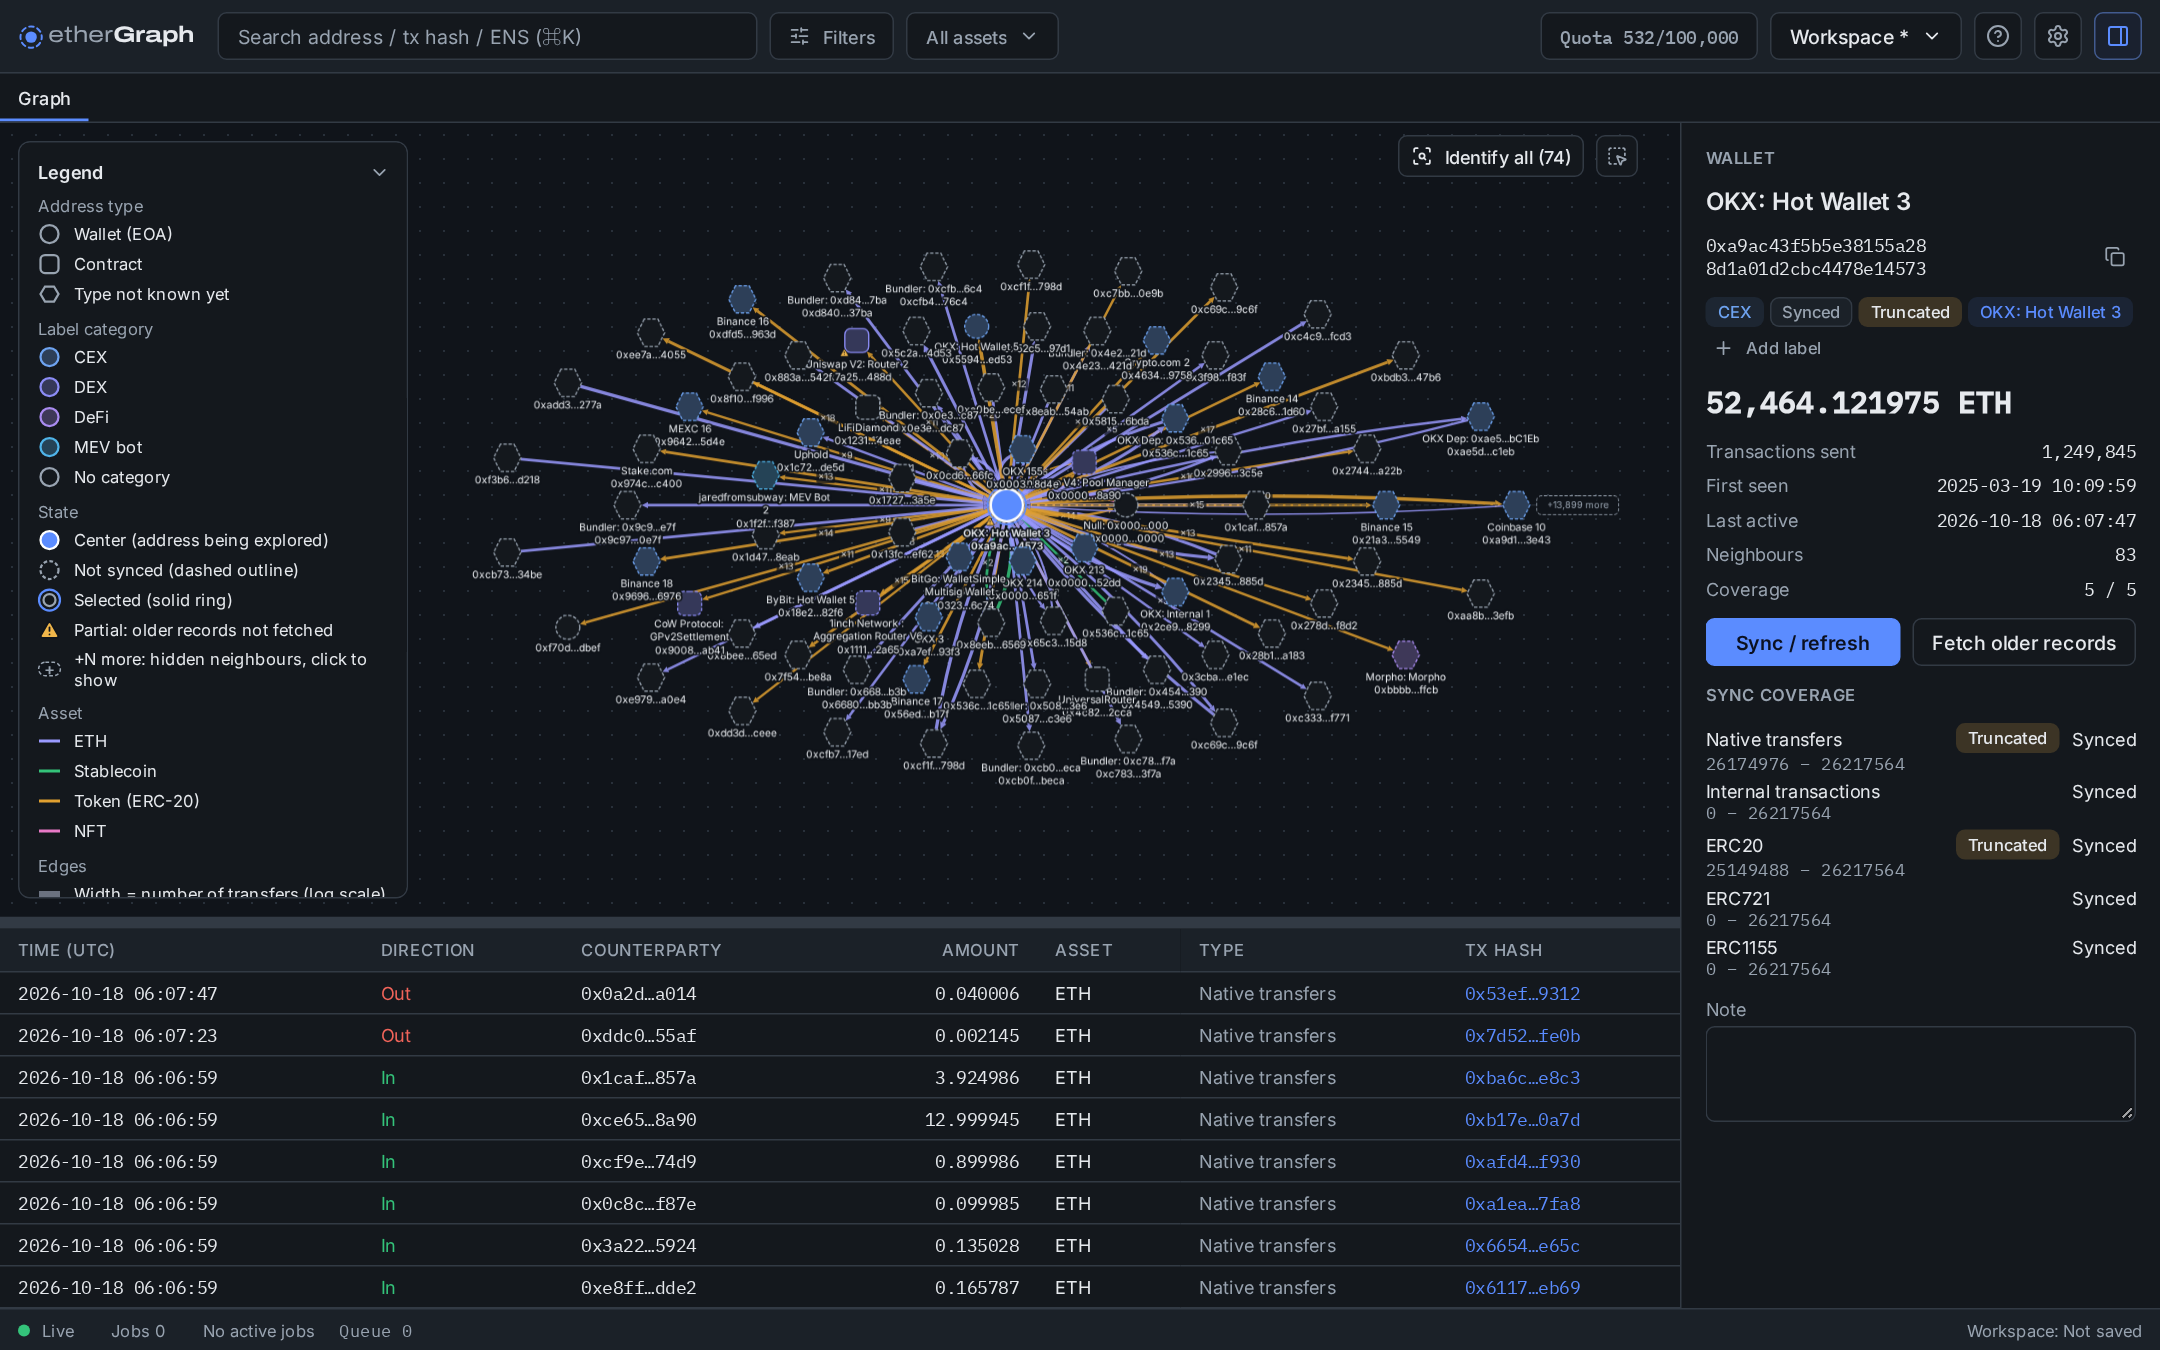
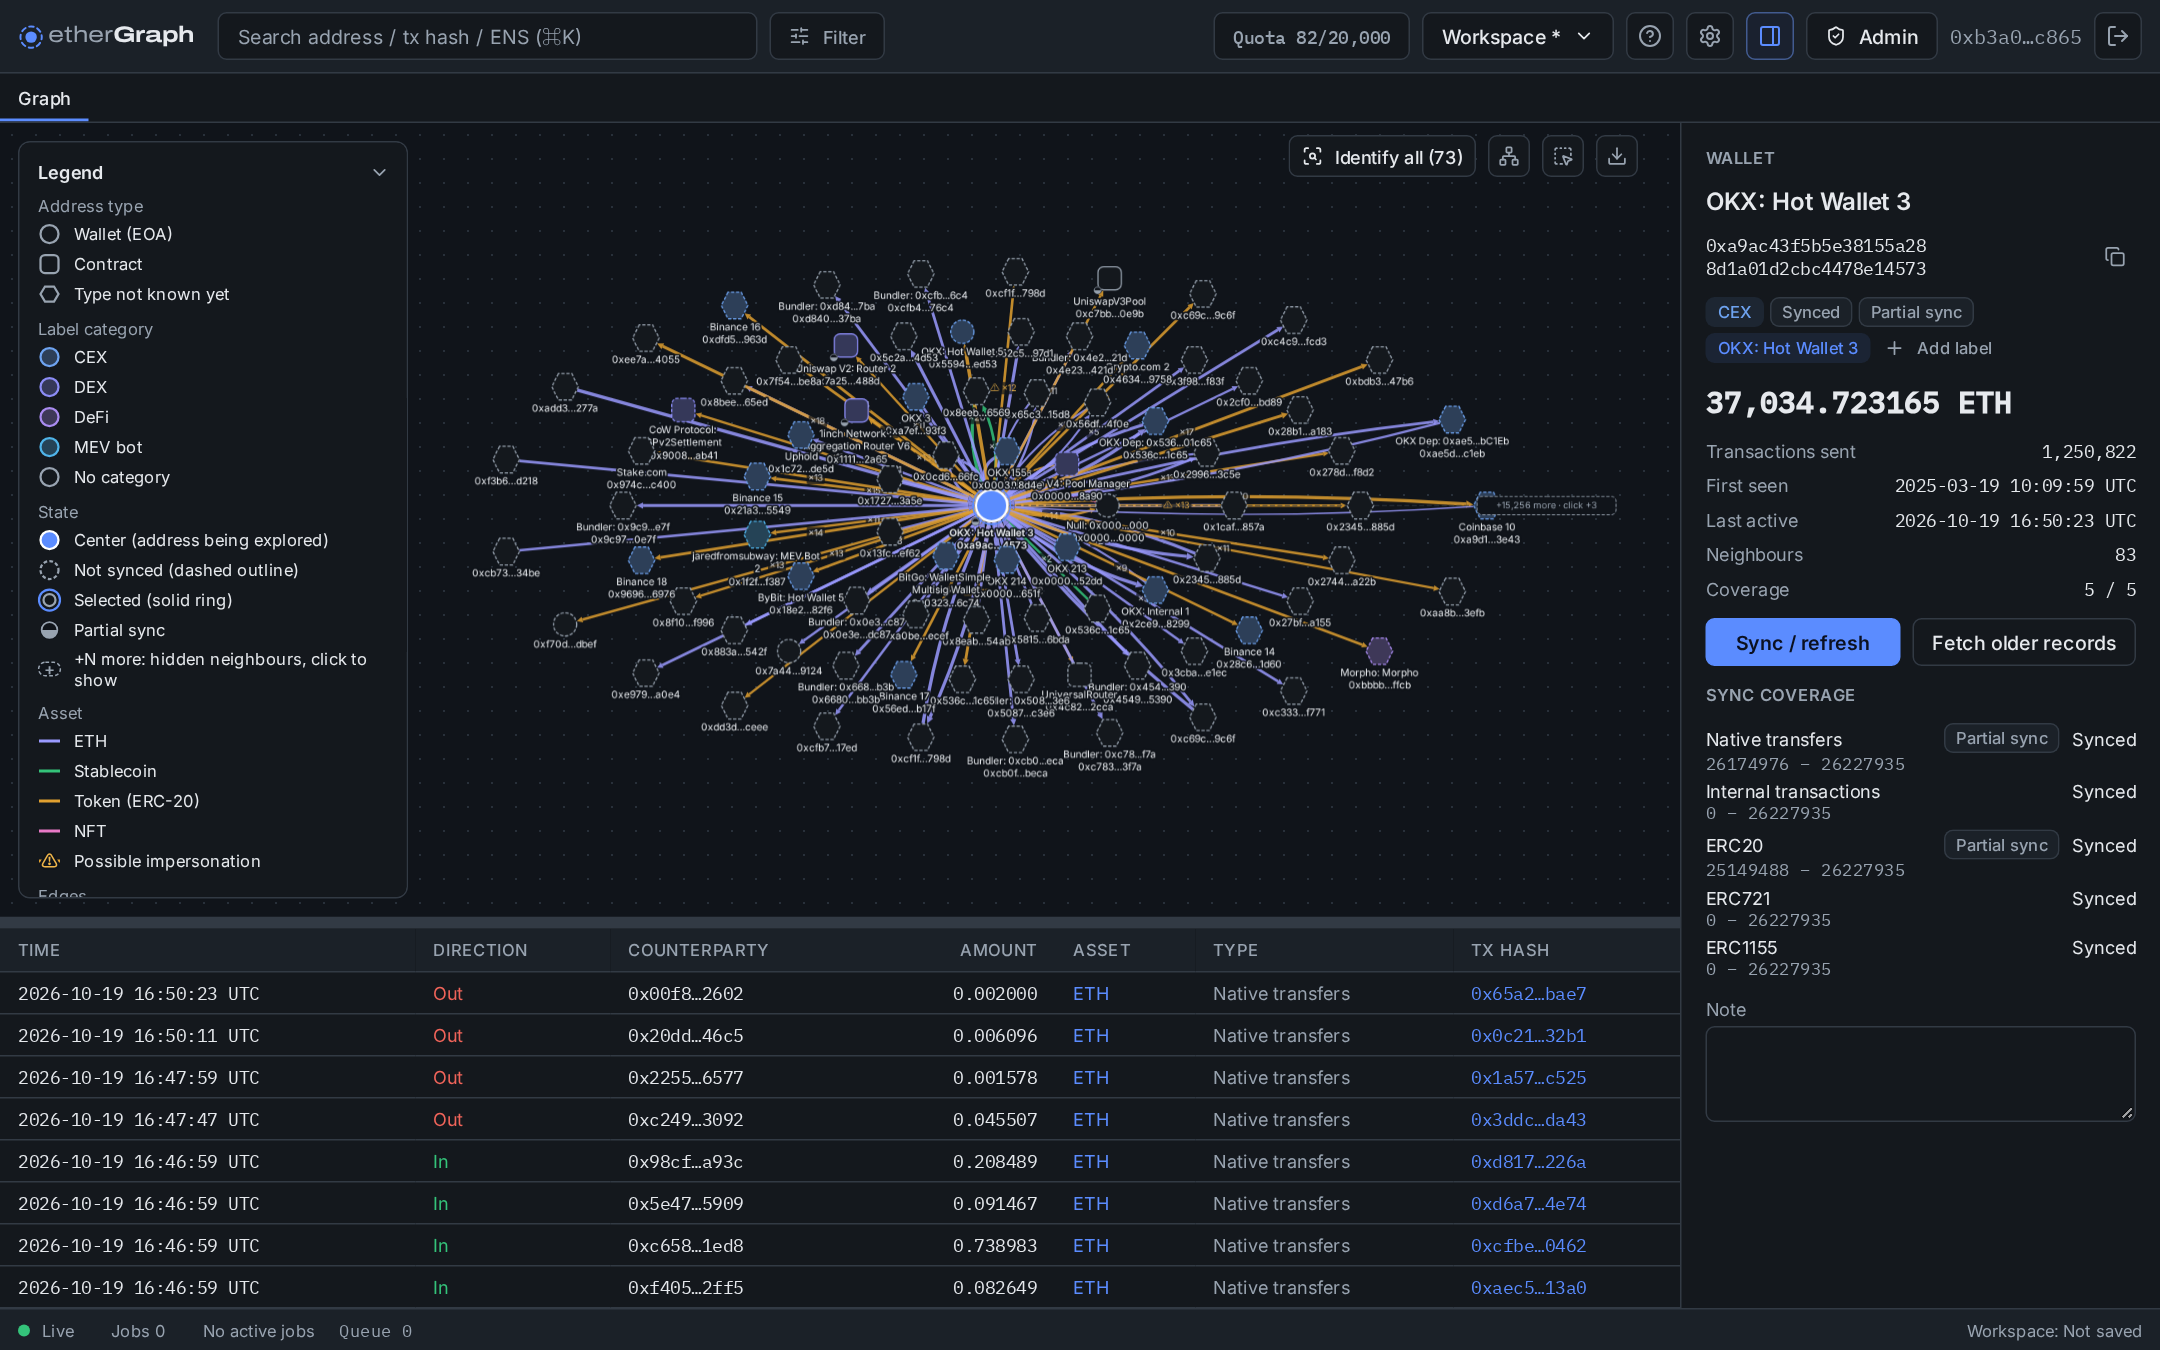
docs: README covers call trees, token trust, workspaces and wallet sign-in, with new screenshots

diff --git a/README.md b/README.md
@@ -4,7 +4,7 @@
 </p>
 
 <p align="center">
-  Explore Ethereum as a graph — follow funds between addresses, contracts and tokens.
+  Explore Ethereum as a graph — follow funds between addresses, contracts and tokens, and open any transaction down to its calls.
 </p>
 
 <p align="center">
@@ -14,32 +14,54 @@
 
 ## Features
 
-- **Address graph** — start from an address, ENS name or transaction hash and expand counterparties in budgeted batches, so the canvas never floods. Every expansion can be undone or cancelled.
-- **Transaction view** — a fund-flow graph with the fee breakdown, decoded input, token transfers, internal calls, logs and raw JSON.
+- **Address graph** — start from an address, ENS name or transaction hash and expand counterparties in budgeted batches, so the canvas never floods. Each expansion shows how many nodes and API calls it will cost before it runs, and can be undone or cancelled. Hidden neighbours wait in draggable "+N more" nodes; Re-layout spreads the graph out again.
+- **Transaction view** — a fund-flow graph with a summary of the token transfers, the fee breakdown, decoded input, token transfers, internal calls, logs and raw JSON. EIP-7702 authorizations and delegations are drawn as well.
+- **Call tree** — the full call trace as a linked call graph and tree. Calls through proxies are decoded with the implementation's ABI, ERC-20 amounts in arguments show their decimals, and read-only calls stay hidden until you ask for them.
+- **Tokens you can trust** — tokens from the Uniswap and CoinGecko lists are marked listed; tokens impersonating a listed one, and known scams, are flagged wherever they appear. Nodes say when they are ERC-20 tokens or proxies.
 - **Labels** — your own labels, 13 categories (CEX, DEX, mixer, sanctioned, …) and the open [eth-labels](https://github.com/dawsbot/eth-labels) dataset.
-- **Free-tier friendly** — runs on the free Etherscan API with a rate-limited job queue, a local Postgres cache and live progress.
-- **Box selection, legend and help** built in; English and Chinese; light and dark themes.
+- **Workspaces and files** — save tabs with their layout, export any view or the whole workspace as a snapshot file for someone else to open, or export an image (PNG, transparent PNG, SVG).
+- **Multi-user** — sign in with an Ethereum wallet. Each user has their own workspaces, labels and a daily API quota; admins manage the whitelist, quotas and sessions with signed actions and an audit log.
+- **Free-tier friendly** — runs on the free Etherscan and Blockscout APIs with a rate-limited job queue, a local Postgres cache and live progress.
+- Box selection, legend and help built in; times in UTC with local time on hover; English and Chinese; light and dark themes.
+
+<p align="center">
+  <img src="docs/images/tx-flow-light.png#gh-light-mode-only" alt="Transaction fund flow" width="900">
+  <img src="docs/images/tx-flow-dark.png#gh-dark-mode-only" alt="Transaction fund flow" width="900">
+</p>
+
+<p align="center">
+  <img src="docs/images/call-tree-light.png#gh-light-mode-only" alt="Call tree" width="900">
+  <img src="docs/images/call-tree-dark.png#gh-dark-mode-only" alt="Call tree" width="900">
+</p>
 
 ## Quick start
 
-Requires Rust 1.94+, [Bun](https://bun.sh) 1.3+, Docker, and an [Etherscan API key](https://etherscan.io/apis) (the free tier works).
+Requires Rust 1.94+, [Bun](https://bun.sh) 1.3+, Docker, an [Etherscan API key](https://etherscan.io/apis) (the free tier works) and a browser wallet such as MetaMask.
 
 ```sh
 docker compose up -d                  # Postgres on localhost:54329
-cp config.example.toml config.toml    # then set etherscan.api_key
+cp config.example.toml config.toml    # then set etherscan.api_key and auth.admins
 (cd web && bun install && bun run build)
 cargo run --release -p eg-server -- serve
 ```
 
-Open <http://127.0.0.1:8080>.
+Put your wallet address in `auth.admins` so you can sign in, then open <http://127.0.0.1:8080> — the address must match `auth.public_origin`. From the admin panel you can whitelist other wallets or open registration.
 
-### Address labels (optional)
+### Address labels and token lists (optional)
 
 ```sh
-mkdir -p data/eth-labels
+mkdir -p data/eth-labels data/tokens
 curl -L -o data/eth-labels/accounts.csv \
   https://raw.githubusercontent.com/dawsbot/eth-labels/v1/data/csv/accounts.csv
 cargo run --release -p eg-server -- import-labels --format eth-labels --csv data/eth-labels/accounts.csv
+
+curl -L -o data/tokens/uniswap-default.json https://tokens.uniswap.org
+curl -L -o data/tokens/coingecko.json https://tokens.coingecko.com/uniswap/all.json
+curl -L -o data/tokens/eth-labels-tokens.csv \
+  https://raw.githubusercontent.com/dawsbot/eth-labels/v1/data/csv/tokens.csv
+cargo run --release -p eg-server -- import-tokens --format uniswap --file data/tokens/uniswap-default.json
+cargo run --release -p eg-server -- import-tokens --format coingecko --file data/tokens/coingecko.json
+cargo run --release -p eg-server -- import-tokens --format eth-labels --file data/tokens/eth-labels-tokens.csv
 ```
 
 ## Development
@@ -53,9 +75,10 @@ Tests: `cargo test --workspace` (needs the Postgres above), `bun run test` and `
 
 | Path | |
 |---|---|
-| `crates/eg-server` | HTTP API, server-sent events, CLI |
-| `crates/eg-ingest` | Job queue: sync, transaction fetch, metadata |
+| `crates/eg-server` | HTTP API, wallet sign-in, server-sent events, CLI |
+| `crates/eg-ingest` | Job queue: sync, transaction fetch, call traces, metadata |
 | `crates/eg-etherscan` | Etherscan client with rate limiting |
+| `crates/eg-blockscout` | Blockscout client for call traces |
 | `crates/eg-decode` | ABI, ENS and token decoding |
 | `crates/eg-store` | Postgres storage and migrations |
 | `crates/eg-core` | Shared types |
